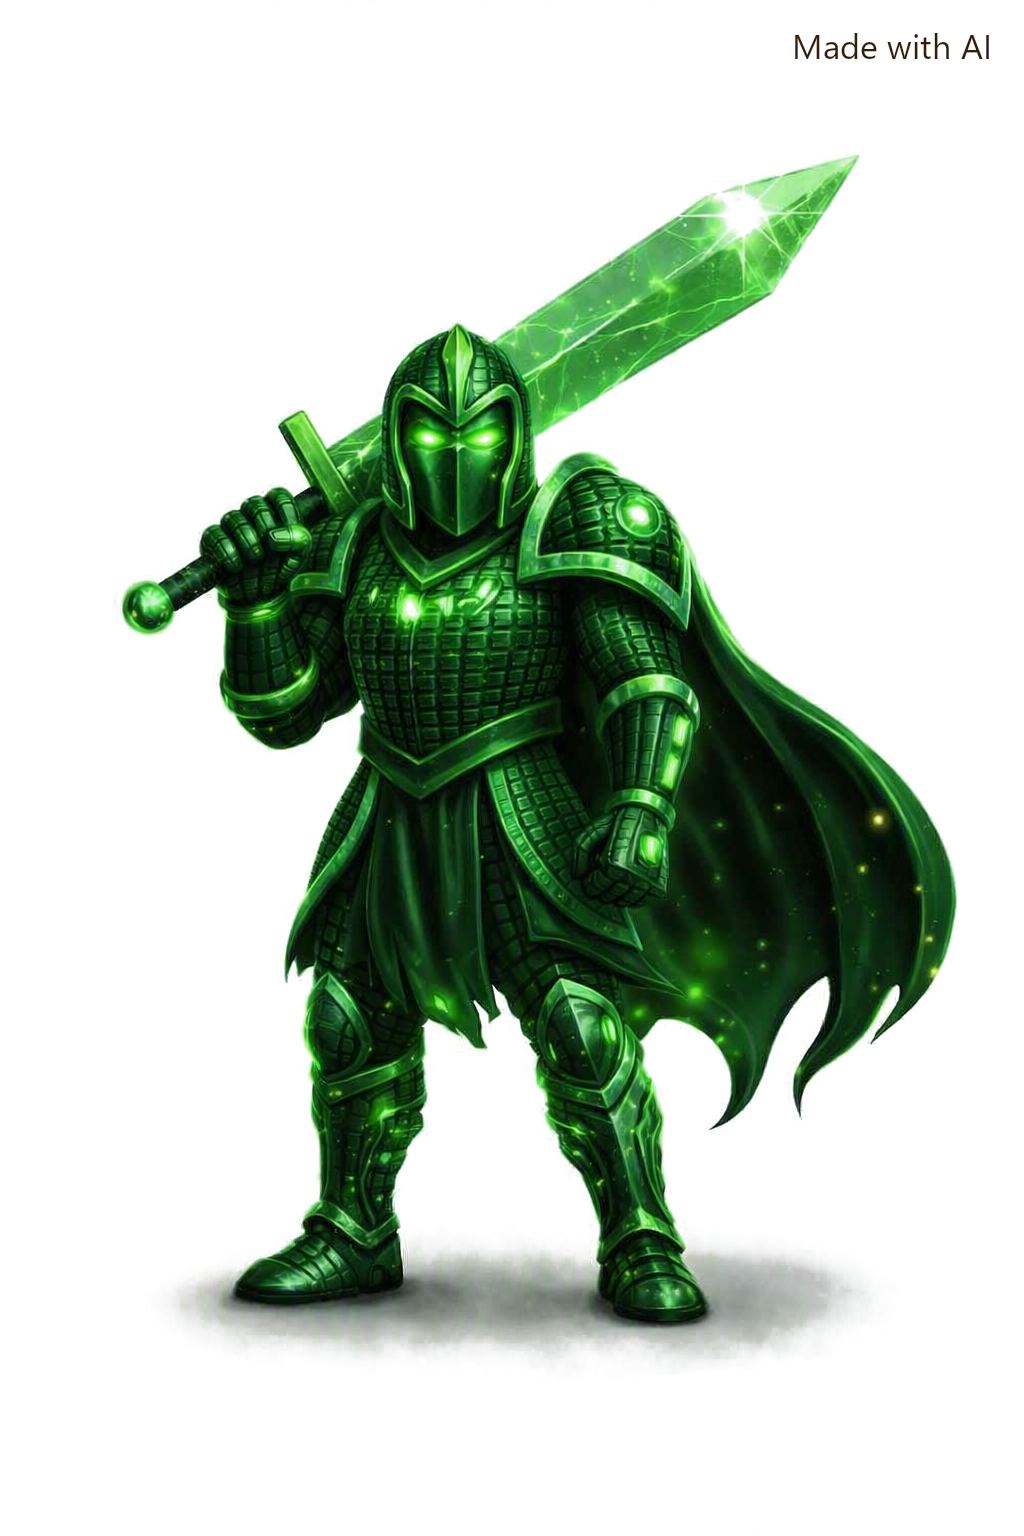
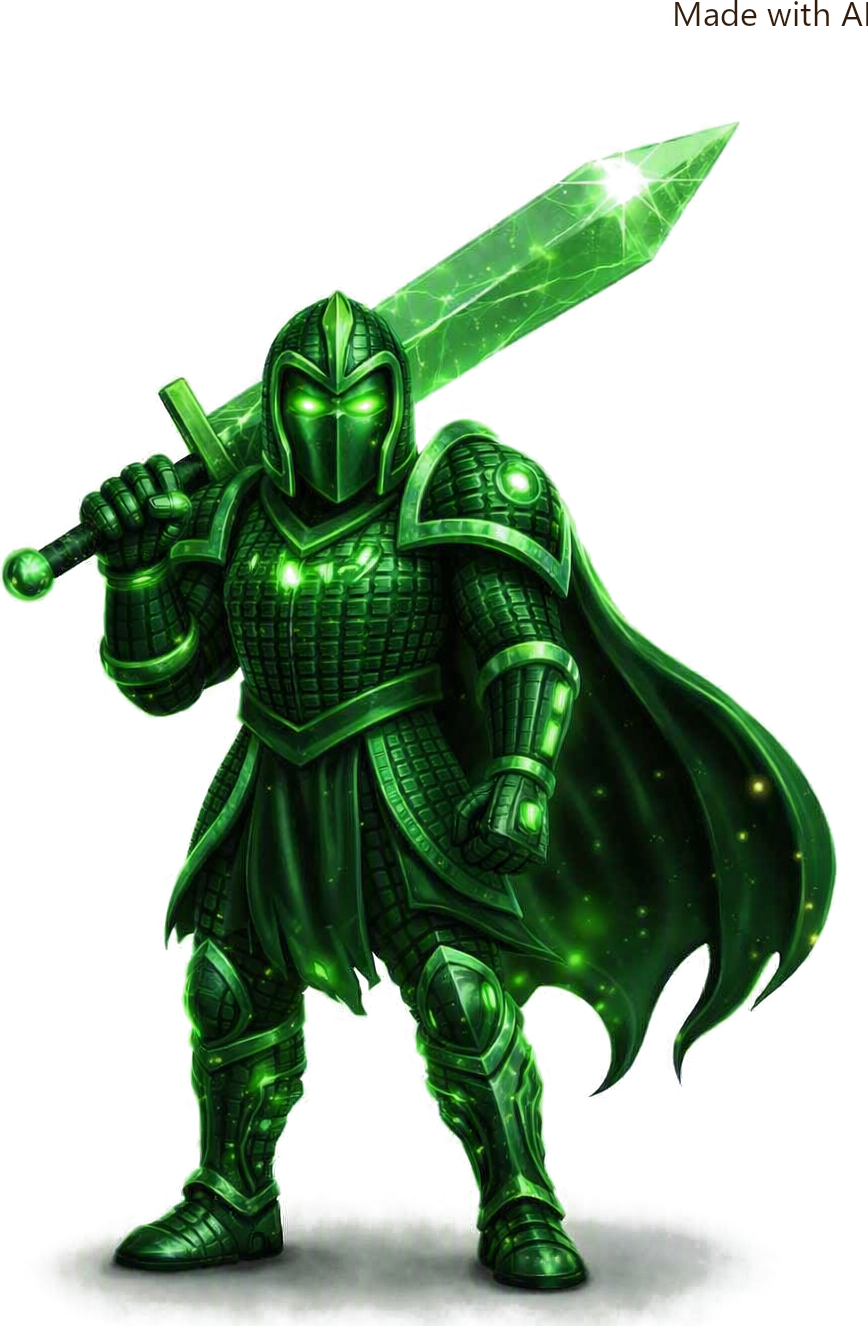
artifact changed

diff --git a/client/src/core/GameState.js b/client/src/core/GameState.js
@@ -37,6 +37,15 @@ export class GameState {
       minHealthSeen: 100,
       startedAt: Date.now(),
     };
+    // Health and Energy reset to full at the start of every run — these
+    // are run-scoped resources, not persistent damage. Without this, a
+    // run that ends via loss (health/energy hit 0) would carry that same
+    // 0 value into the NEXT run's opening frame, which instantly re-loses
+    // it before the player can do anything — the same "unwinnable from
+    // frame one" bug class as the earlier void-fall timing issue, just
+    // triggered by permanent-state carryover instead of spawn timing.
+    this.state.health = 100;
+    this.state.energy = 100;
     // state.bag is a LIVE MIRROR of currentRun.bag for HUD display only —
     // the permanent record. It's zeroed at the start/end of every run;
     // the real "did this run's earnings survive" answer is whether

diff --git a/client/src/scenes/paths/TrenchesScene.js b/client/src/scenes/paths/TrenchesScene.js
@@ -224,7 +224,7 @@ export function mountTrenchesScene(container, gameState, onRunEnd) {
   const heroMat = new THREE.SpriteMaterial({ map: heroTexture, transparent: true });
   const heroSprite = new THREE.Sprite(heroMat);
   const HERO_HEIGHT = 2.1;
-  const HERO_ASPECT = 1024 / 1536; // standing-pose art dimensions, standalone (no attached background art/effects)
+  const HERO_ASPECT = 868 / 1326; // re-cropped tight to the character (removed ~177px of empty/shadow-fade space below the boots that was causing the sprite to float above candles)
   heroSprite.scale.set(HERO_HEIGHT * HERO_ASPECT, HERO_HEIGHT, 1);
   heroSprite.position.y = HERO_HEIGHT / 2; // anchor the sprite's bottom edge at the player's ground-contact point
   player.add(heroSprite);
